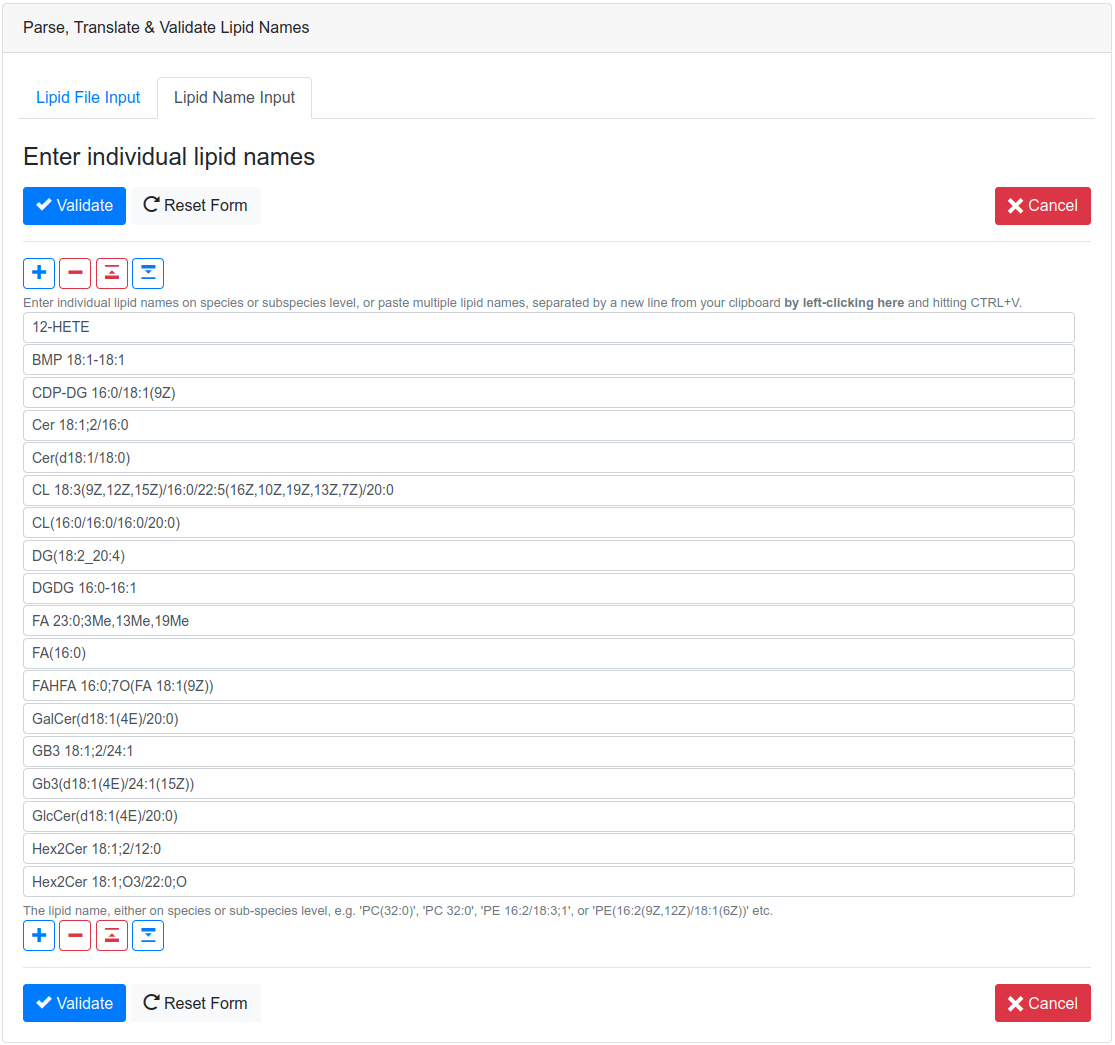
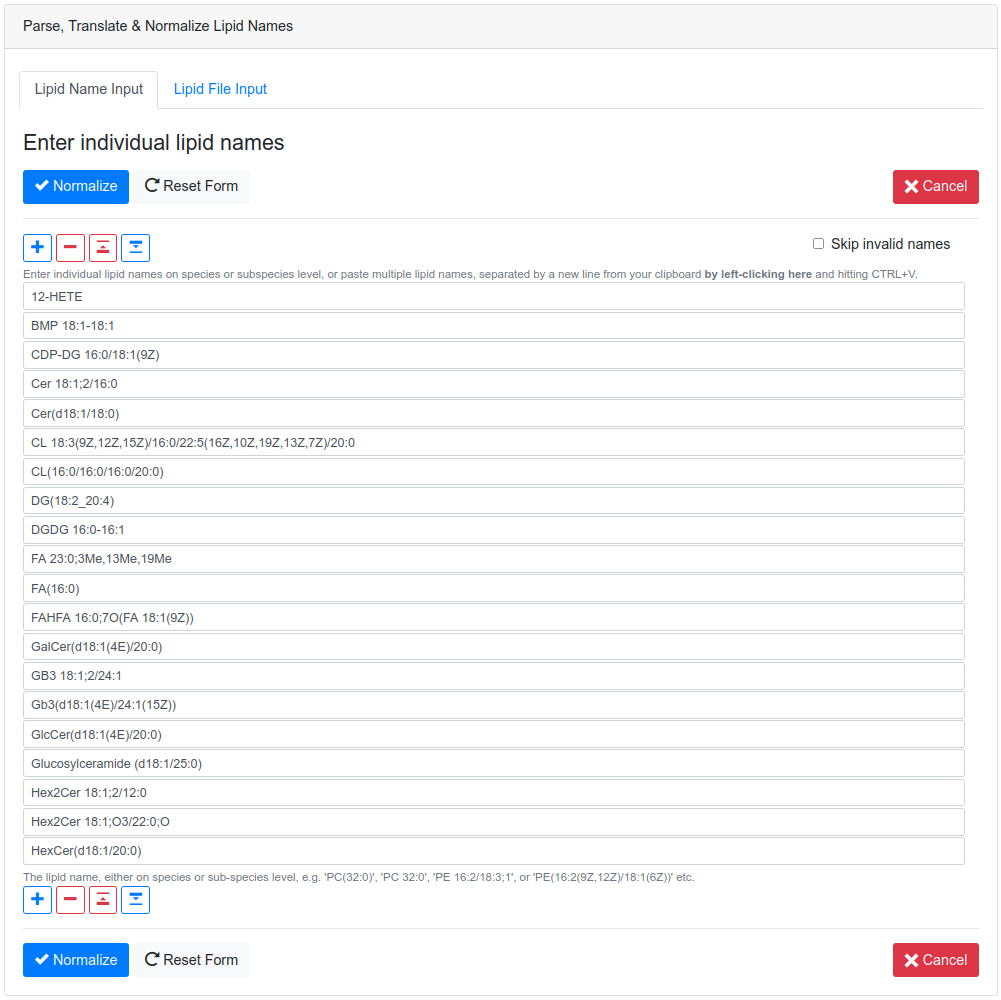
Updated documentation

Changed region(s): [[0.0, 0.062, 1.0, 1.0], [0.0, 0.0, 0.3097, 0.031]]

diff --git a/src/main/resources/templates/fragments/manual.html b/src/main/resources/templates/fragments/manual.html
@@ -85,7 +85,7 @@
                         </figure>
                         <figure class="figure">
                             <a id="fig:goslin-webapp-form-02"><img th:src="@{/img/goslin-webapp-form-02.png}" alt="SubmissionForm2" style="max-width:100%;"/></a>
-                            <figcaption class="figure-caption"><b>Figure 2.</b>&nbsp;Goslin web application submission form for user-defined lipid names.</figcaption>
+                            <figcaption class="figure-caption"><b>Figure 2.</b>&nbsp;Goslin web application submission form for user-defined lipid names. Tick 'Skip invalid names' to skip over issues with invalid names to proceed to the parsing results. Invalid names will then be indicated inline with valid input names. The order of input lipid names is preserved.</figcaption>
                         </figure>
                         <figure class="figure">
                             <a id="fig:goslin-webapp-form-02a"><img th:src="@{/img/goslin-webapp-form-02a.png}" alt="SubmissionForm3" style="max-width:100%;"/></a>

diff --git a/src/main/java/org/lifstools/jgoslin/webapp/services/LipidNameValidationService.java b/src/main/java/org/lifstools/jgoslin/webapp/services/LipidNameValidationService.java
@@ -81,8 +81,8 @@ public class LipidNameValidationService {
         grammarToParser.put(Grammar.SHORTHAND, new ShorthandParser(knownFunctionalGroups));
         grammarToParser.put(Grammar.FATTY_ACID, new FattyAcidParser(knownFunctionalGroups));
         grammarToParser.put(Grammar.GOSLIN, new GoslinParser(knownFunctionalGroups));
-        grammarToParser.put(Grammar.LIPIDMAPS, new GoslinParser(knownFunctionalGroups));
-        grammarToParser.put(Grammar.SWISSLIPIDS, new GoslinParser(knownFunctionalGroups));
+        grammarToParser.put(Grammar.LIPIDMAPS, new LipidMapsParser(knownFunctionalGroups));
+        grammarToParser.put(Grammar.SWISSLIPIDS, new SwissLipidsParser(knownFunctionalGroups));
         grammarToParser.put(Grammar.HMDB, new HmdbParser(knownFunctionalGroups));
     }
 
@@ -100,22 +100,8 @@ public class LipidNameValidationService {
     }
 
     private Parser<LipidAdduct> parserFor(ValidationResult.Grammar grammar) {
-        switch (grammar) {
-            case SHORTHAND:
-                return new ShorthandParser(knownFunctionalGroups);
-            case FATTY_ACID:
-                return new FattyAcidParser(knownFunctionalGroups);
-            case GOSLIN:
-                return new GoslinParser(knownFunctionalGroups);
-            //            case GOSLIN_FRAGMENTS:
-            //                return new GoslinFragmentsVisitorParser();
-            //break;
-            case LIPIDMAPS:
-                return new LipidMapsParser(knownFunctionalGroups);
-            case SWISSLIPIDS:
-                return new SwissLipidsParser(knownFunctionalGroups);
-            case HMDB:
-                return new HmdbParser(knownFunctionalGroups);
+        if(grammarToParser.containsKey(grammar)) {
+            return grammarToParser.get(grammar);
         }
         throw new RuntimeException("No parser implementation available for grammar '" + grammar + "'!");
     }
